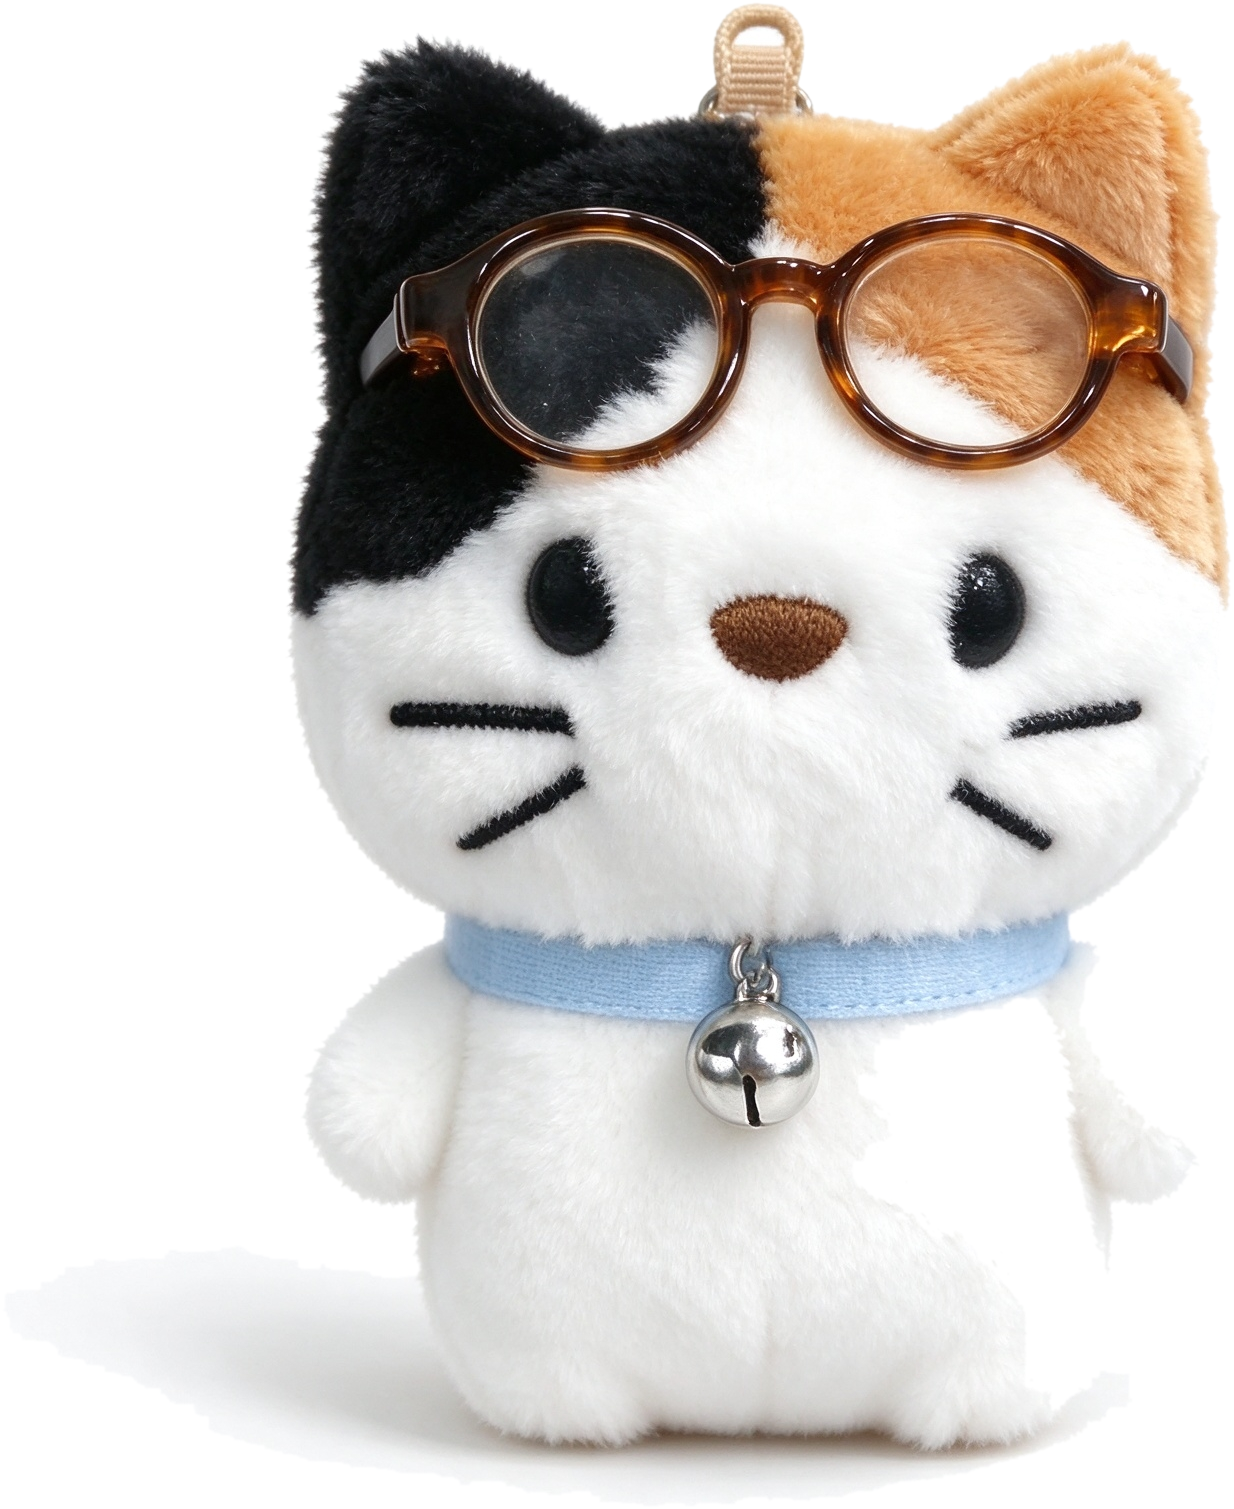
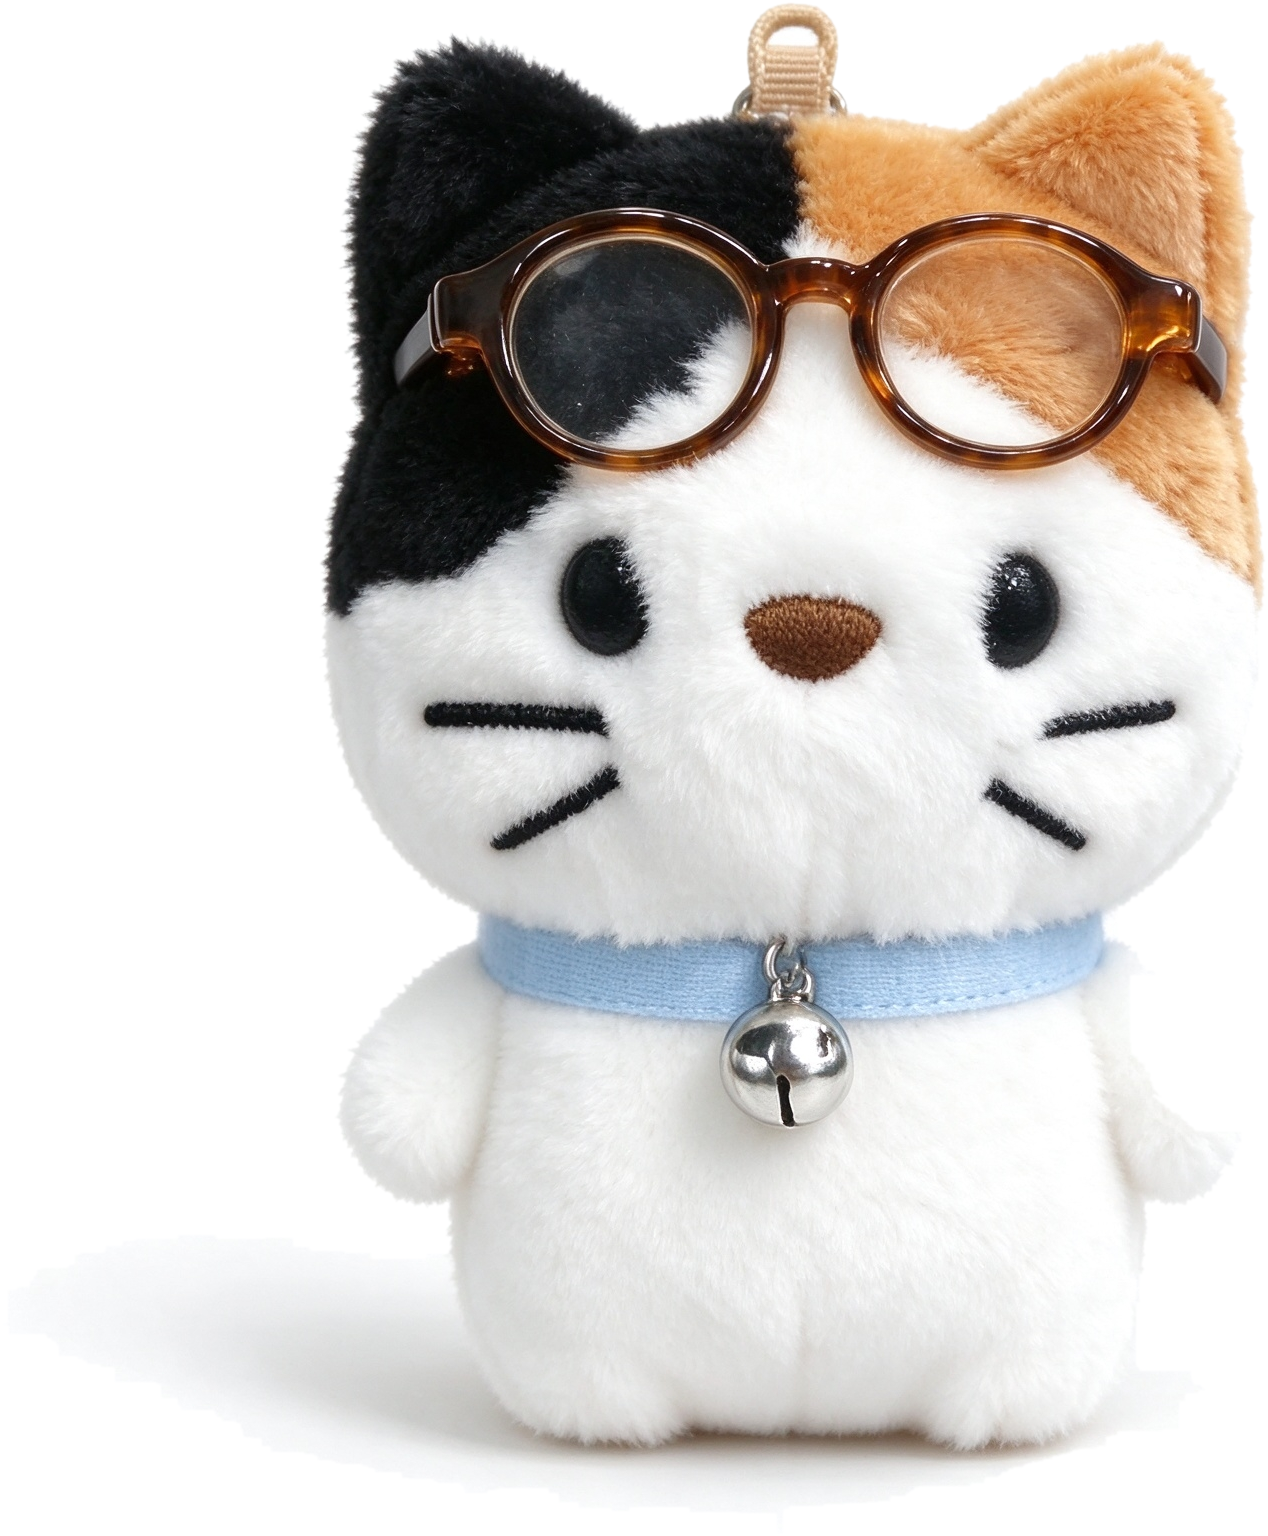
第二章第一页：让画面跟着文字走
作者说第一页只是两个人站着，跟文字不搭。改成「两地合一」：
两个人从画面两侧进来，中间一条虚线，左边飘出「湖北」、右边飘出「广州」，
然后虚线消失、两个地名淡走、两人在中间站到一起，底下浮起一层暖光。

对应的正是那页的话——「她去了湖北，我在广州 / 我想过很多遍另一件事——
如果我们不但是在同一所大学，还是同一个宿舍」。画面把这句话演一遍，
而不是在旁边配一张站着的立绘。

城市名也进了文案表（u1.city.jing / u1.city.ya），随时可改。
另外挂件的闭运算补洞也一并进来了：先封住背景钻进来的细缝再补洞，
猫身体右下被啃掉的那一角补回来了。

diff --git a/src/styles/scene.css b/src/styles/scene.css
@@ -612,6 +612,93 @@
 /* 异地那一幕：两个人之间空出一段距离 */
 .actors--wide { gap: clamp(46px, 26vw, 150px); }
 
+/* ── 「两地合一」：第二章第一页 ───────────────────────────
+   两个人分别从画面两侧进来，地名先亮出来再淡走，中间那条虚线消失，
+   底下浮起一层暖光 —— 画面本身把「如果我们在同一个宿舍」演一遍。 */
+
+.merge {
+  position: absolute;
+  inset: 0;
+  z-index: 2;
+  --h: clamp(140px, 30vh, 200px);
+}
+
+.merge__pair {
+  position: absolute;
+  left: 0;
+  right: 0;
+  bottom: 8px;
+  display: flex;
+  align-items: flex-end;
+  justify-content: center;
+  gap: clamp(8px, 5vw, 32px);
+}
+
+.merge__actor {
+  height: var(--h);
+  width: auto;
+  filter: drop-shadow(0 10px 14px rgba(40, 28, 16, .4));
+}
+
+.merge__actor--jing { height: calc(var(--h) * .9); animation: merge-from-left 3.6s var(--ease) .5s both; }
+.merge__actor--ya   { animation: merge-from-right 3.6s var(--ease) .5s both; }
+
+@keyframes merge-from-left  { from { transform: translateX(-180%); } to { transform: none; } }
+@keyframes merge-from-right { from { transform: translateX(180%); }  to { transform: none; } }
+
+.merge__city {
+  position: absolute;
+  top: 13%;
+  padding: 5px 14px;
+  border-radius: 20px;
+  font-family: var(--font-display);
+  font-size: 15px;
+  letter-spacing: .12em;
+  color: var(--ya-deep);
+  background: rgba(255, 253, 247, .94);
+  box-shadow: 0 5px 12px -6px rgba(30, 40, 55, .55);
+  animation: merge-city 3.9s var(--ease) both;
+}
+
+.merge__city--jing { left: 7%; }
+.merge__city--ya   { right: 7%; }
+
+@keyframes merge-city {
+  0%        { opacity: 0; transform: translateY(-7px) scale(.94); }
+  11%       { opacity: 1; transform: none; }
+  55%       { opacity: 1; }
+  78%, 100% { opacity: 0; }
+}
+
+.merge__divider {
+  position: absolute;
+  left: 50%;
+  top: 11%;
+  bottom: 32%;
+  width: 1.5px;
+  background: repeating-linear-gradient(180deg, rgba(74, 127, 181, .55) 0 6px, transparent 6px 12px);
+  animation: merge-city 3.9s var(--ease) both;
+}
+
+.merge__glow {
+  position: absolute;
+  left: 50%;
+  bottom: 6%;
+  width: 68%;
+  height: 36%;
+  transform: translateX(-50%);
+  border-radius: 50%;
+  pointer-events: none;
+  background: radial-gradient(50% 50% at 50% 50%, rgba(255, 238, 200, .8), rgba(255, 238, 200, 0) 72%);
+  animation: merge-glow 3.6s var(--ease) .5s both;
+}
+
+@keyframes merge-glow {
+  0%, 52% { opacity: 0; }
+  80%     { opacity: 1; }
+  100%    { opacity: .72; }
+}
+
 /* 第二章是"假如"，整体比第一章亮一档、偏冷，好和高中那几年区分开 */
 .tone-cool .story__panel {
   background: radial-gradient(120% 130% at 20% 0%, #FCFEFF 0%, #ECF3F9 56%, #DCE8F1 100%);

diff --git a/src/scenes.js b/src/scenes.js
@@ -147,6 +147,22 @@ export function buildStory(scene, { index, onPrev, onNext, onExit, onPlay }) {
 
   // 第一章穿校服（hs），第二章换大学那套（uni）
   const cast = scene.set || 'hs';
+
+  // 「两地合一」：两个人各自站一块，地名先飘出来，然后合到一起。
+  // 第二章第一页用它，让画面跟着文字走，而不是干站着。
+  if (scene.fx === 'merge') {
+    stage.append(h('div', { class: 'merge' },
+      h('span', { class: 'merge__divider' }),
+      h('span', { class: 'merge__city merge__city--jing', text: scene.cities.jing }),
+      h('span', { class: 'merge__city merge__city--ya', text: scene.cities.ya }),
+      h('span', { class: 'merge__glow' }),
+      h('div', { class: 'merge__pair' },
+        h('img', { class: 'merge__actor merge__actor--jing', src: `${ART}/${cast}-jing.png`, alt: '' }),
+        h('img', { class: 'merge__actor merge__actor--ya', src: `${ART}/${cast}-ya.png`, alt: '' }),
+      ),
+    ));
+  }
+
   if (scene.actors.length) {
     const wide = scene.gap === 'wide' ? ' actors--wide' : '';
     stage.append(h('div', { class: `actors${wide}` },

diff --git a/src/content.js b/src/content.js
@@ -59,6 +59,8 @@ export default {
   "u1.title": "如果我们不但是在同一所大学",
   "u1.body": "她去了湖北，我在广州。\n\n我想过很多遍另一件事——如果我们不但是在同一所大学，还是同一个宿舍。\n\n每天都在一起的那一种。",
   "u1.bubble.1": "那，从头来一次",
+  "u1.city.jing": "湖北",
+  "u1.city.ya": "广州",
   "u2.eyebrow": "假如 · 中午和下午",
   "u2.title": "一起去食堂，一起写作业",
   "u2.body": "她先到，占两个位置。我端着餐盘过去。\n\n下午在图书馆，她做题，我写我自己的。\n她中途转过来问我一个单词，我说不知道。",

diff --git a/src/data.js b/src/data.js
@@ -139,7 +139,10 @@ const UNI = [
     chapter: 'uni', tone: 'cool', set: 'uni',
     eyebrow: T('u1.eyebrow'), title: T('u1.title'), body: T('u1.body'),
     stage: { bg: 'linear-gradient(178deg,#EDF3F8 0%,#D6E4EF 58%,#BDD2E3 100%)' },
-    actors: ['ya', 'jing'],
+    // 这一幕不用「站着」的立绘：两个城市各自一块，然后合到一起
+    fx: 'merge',
+    cities: { jing: T('u1.city.jing'), ya: T('u1.city.ya') },
+    actors: [],
     faces: { ya: 'shy', jing: 'laugh' },
     bubbles: [{ who: 'ya', text: T('u1.bubble.1') }],
   },

diff --git a/tools/cutout.py b/tools/cutout.py
@@ -42,6 +42,7 @@ FLAT_FEATHER = 1.0
 FLAT_HALO_BRIGHT = 246   # 亮到这个值以上、又贴着轮廓 = 挂件自带的柔投影/背景
 FLAT_HALO_SAT = 16
 FLAT_BAND = 8            # 「贴着轮廓」的判定半径：要盖住那层柔投影
+FLAT_CLOSE = 16          # 闭运算半径：用来封住背景钻进来的细缝
 
 DEFAULT_NAMES = ["front", "side", "back"]
 
@@ -263,6 +264,37 @@ def _refine_flat(fg, im, w, h):
     return bytearray((solid.astype(np.uint8) * 255).tobytes())
 
 
+def _close_and_fill(fg, w, h, r):
+    """形态学闭运算 + 补洞。
+
+    毛绒的边缘是软过渡：只要有一段足够亮，洪水就会顺着钻进来，在身体上
+    啃掉一角（看起来像"缺了一块"）。闭运算（先膨胀再腐蚀）能把这种细缝
+    封住，封住以后那块就成了洞，补洞就能把颜色还回来。
+    """
+    import numpy as np
+    keep = np.frombuffer(bytes(fg), dtype=np.uint8).reshape(h, w).astype(bool)
+
+    d = keep.copy()
+    for k in range(-r, r + 1):
+        d |= np.roll(keep, k, axis=1)
+    t = d.copy()
+    for k in range(-r, r + 1):
+        t |= np.roll(d, k, axis=0)
+
+    e = t.copy()
+    for k in range(-r, r + 1):
+        e &= np.roll(t, k, axis=1)
+    u = e.copy()
+    for k in range(-r, r + 1):
+        u &= np.roll(e, k, axis=0)
+
+    bgc = (~u).astype(np.uint8).tobytes()
+    outer = _reachable(bytearray(bgc), w, h)
+    o = np.frombuffer(bytes(outer), dtype=np.uint8).reshape(h, w).astype(bool)
+    u |= (~u & ~o)          # 走不到画外的背景 = 洞 -> 归入前景
+    return bytearray(u.astype(np.uint8).tobytes())
+
+
 def to_transparent_flat(im):
     """纯白背景上的单件物品（比如毛绒挂件）。
 
@@ -287,6 +319,7 @@ def to_transparent_flat(im):
     for i in range(w * h):
         if bgc[i] and not outer[i]:
             fg[i] = 1
+    fg = _close_and_fill(fg, w, h, FLAT_CLOSE)
     fg = _largest_blob(fg, w, h)
     soft = _refine_flat(fg, im, w, h)
 
